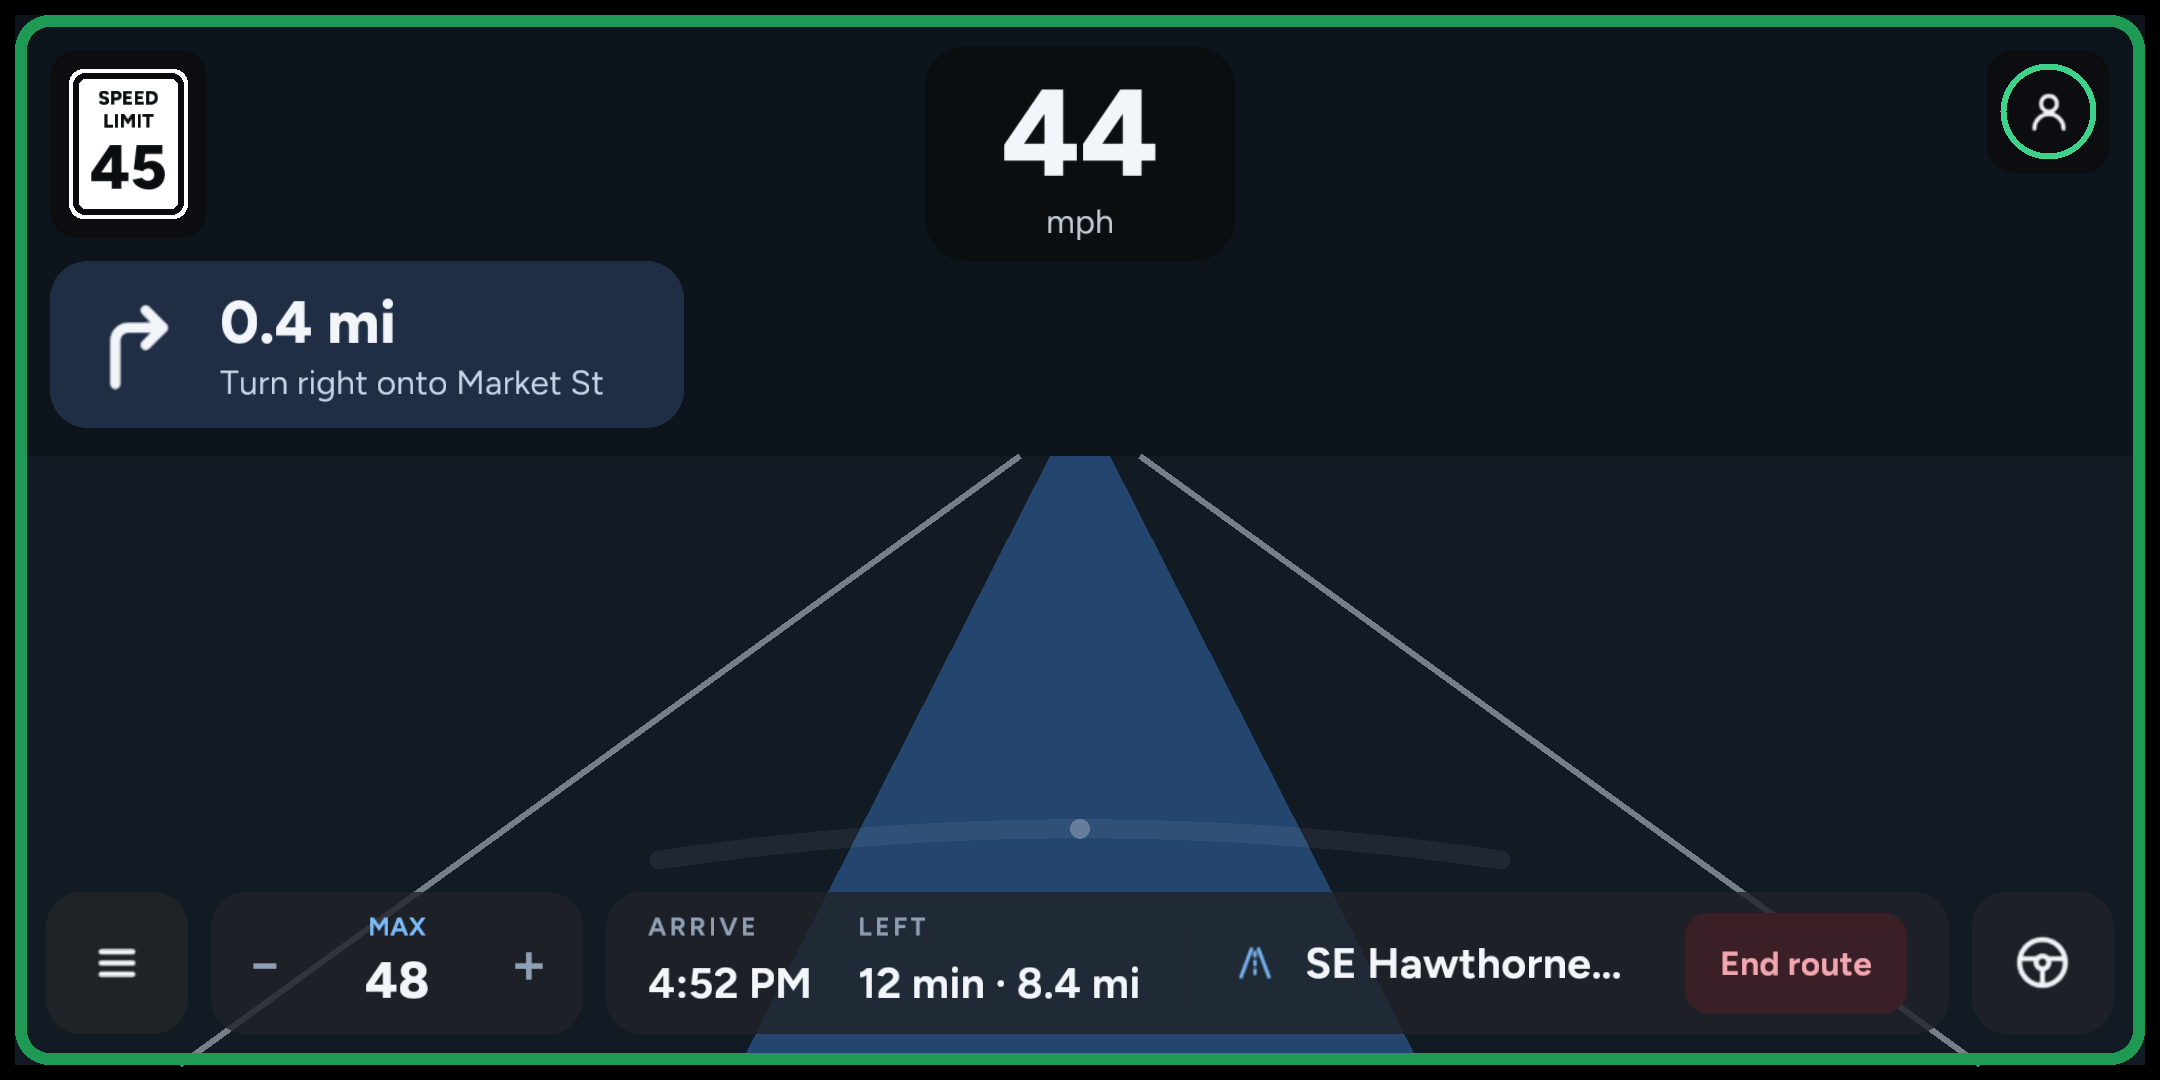
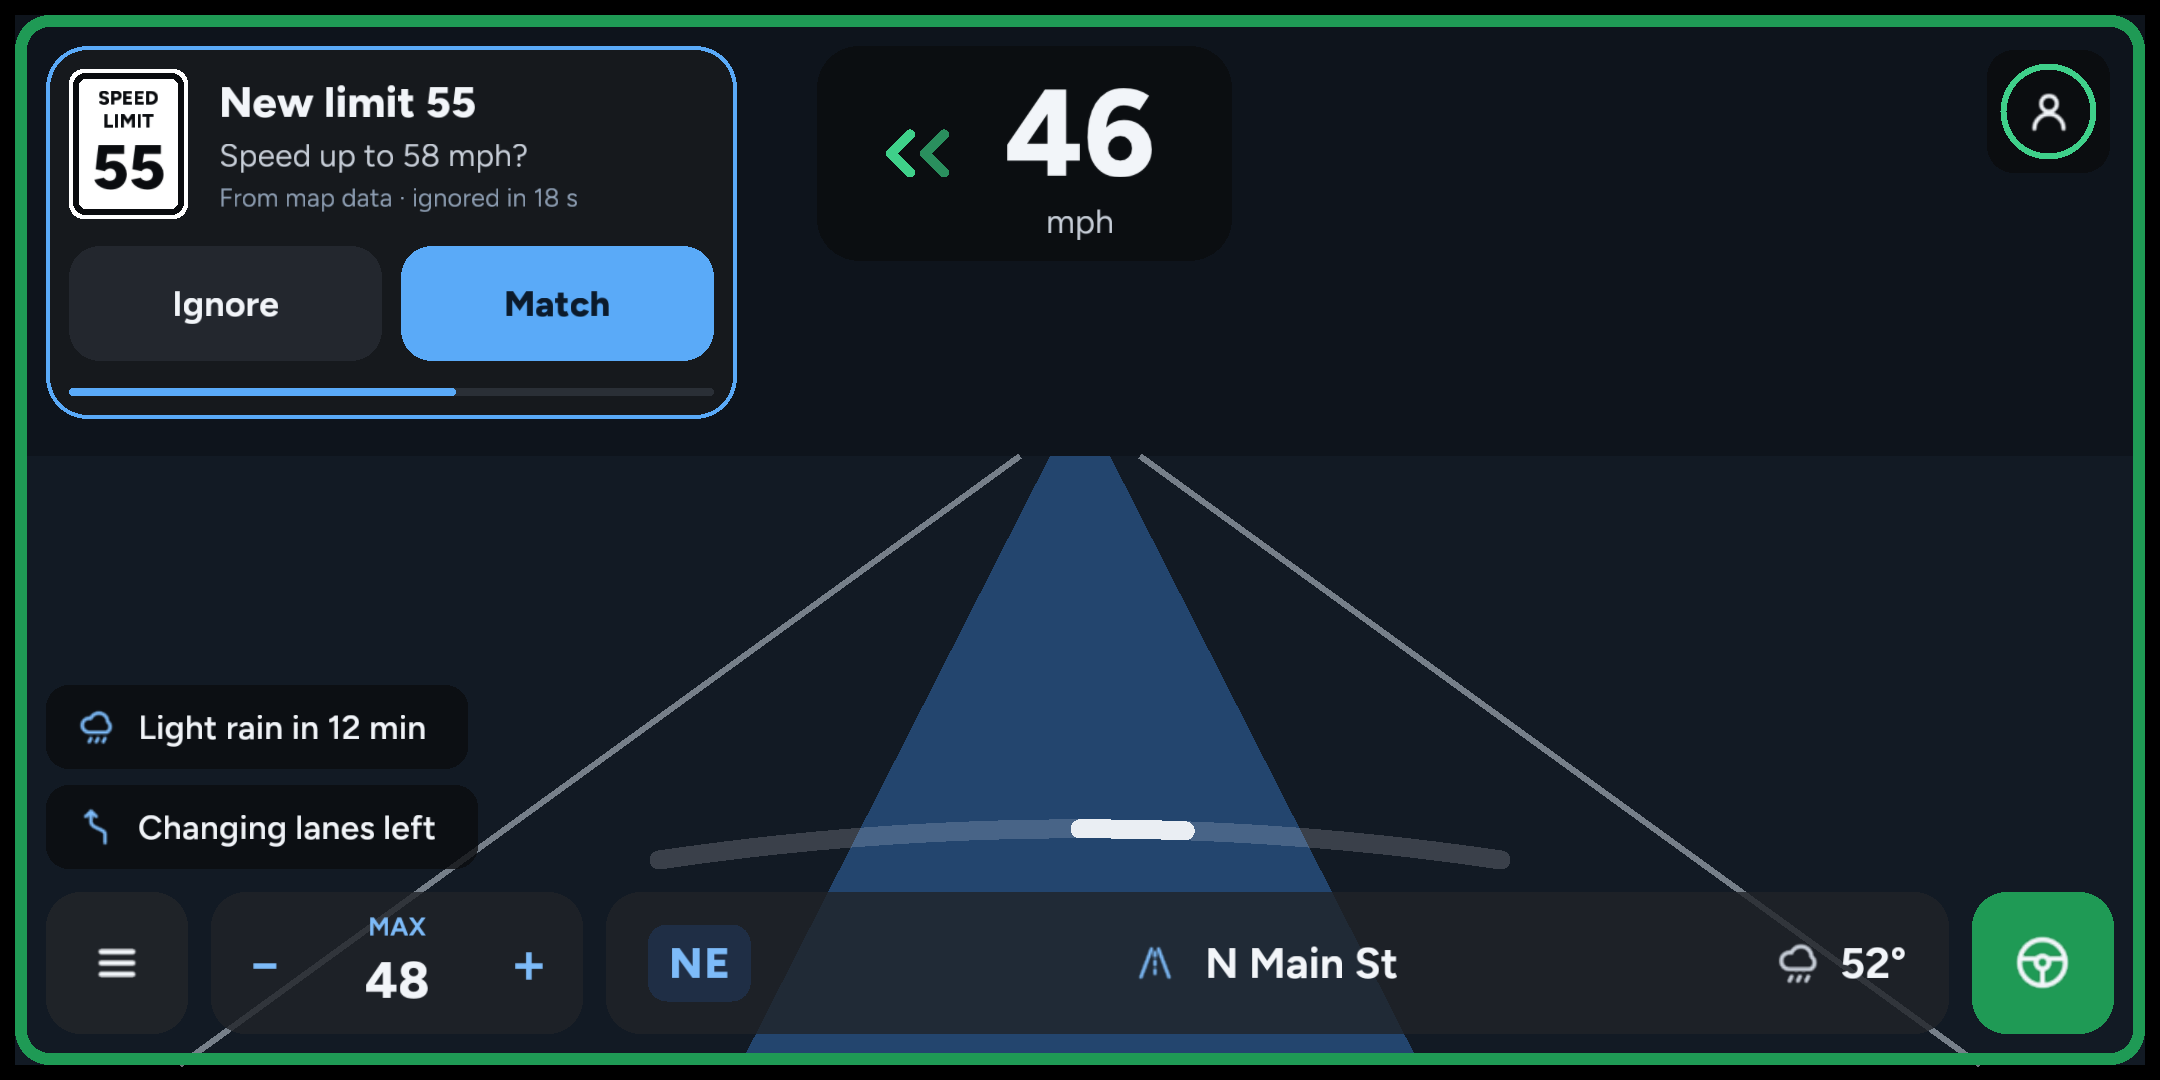
README: a fuller driving screenshot, plus voice typing and Help steer
The first image now shows a new-limit offer, status chips for a lane
change and light rain ahead, and the compass, street and temperature in
the bar (a new onroad_hero render). A third row adds voice typing and
Help steer.

Claude-Session: https://claude.ai/code/session_01R4pPc2hcx88Dbjjec1p8WC

diff --git a/selfdrive/ui/tandem/tools/render/scene_onroad.py b/selfdrive/ui/tandem/tools/render/scene_onroad.py
@@ -76,6 +76,11 @@ def main(frame, save, out, tap, gui_app):
     "onroad_nav_limit": scene(BarState(True, True, 48, "mph", "SE Hawthorne Blvd", True, "4:52 PM", "12 min · 8.4 mi"), ArcState(0.15, 0.2, True),
                               None, LimitOffer(55, 58, "mph", "Map Data", 18), speed=44, limit="45",
                               turn=("0.4 mi", "Turn right onto Market St", "turn", "right")),
+    # The README's first image: a new-limit offer, a lane change and a weather heads-up, the compass and the weather now.
+    "onroad_hero": scene(BarState(True, True, 48, "mph", "N Main St", heading="NE", weather=("rain", "52°")), ArcState(0.25, 0.3, True),
+                         [(chip_for(Snapshot(engaged=True, lane_change="starting", lane_change_direction="left")), 1.0),
+                          (chip_for(Snapshot(forecast=("Light rain in 12 min", "rain"))), 1.0)],
+                         LimitOffer(55, 58, "mph", "Map Data", 18), speed=46, limit="45", signal="left"),
     "onroad_green": scene(BarState(True, True, 44, "mph", "SE Hawthorne Blvd"), ArcState(0, 0, False),
                           chip_for(Snapshot(engaged=True, standstill=True, events={"greenLight"})), speed=0, limit="45"),
   }

diff --git a/README.md b/README.md
@@ -9,7 +9,7 @@ I built this for my own preferences, and I do not encourage others to use it.
 
 [What's new](RELEASES.md) · [Development guide](selfdrive/ui/tandem/README.md) · [Report a problem](https://github.com/jfgordon2/Tandem/issues)
 
-![Tandem driving screen showing speed, the speed limit, turn directions, driver monitoring, and route controls](selfdrive/ui/tandem/assets/screenshots/onroad.png)
+![Tandem driving screen asking to match a new 55 mph limit, with status chips for a lane change and light rain ahead, and the compass, street, and temperature in the bar](selfdrive/ui/tandem/assets/screenshots/onroad.png)
 
 ## What makes Tandem different
 
@@ -44,6 +44,11 @@ StarPilot continues to provide the driving logic, vehicle integrations, and unde
 | --- | --- |
 | [![Everyday speed and steering settings with driving styles and speed limit controls](selfdrive/ui/tandem/assets/screenshots/everyday.png)](selfdrive/ui/tandem/assets/screenshots/everyday.png) | [![Destination picker with Home, Work, favorites, and recent places](selfdrive/ui/tandem/assets/screenshots/destinations.png)](selfdrive/ui/tandem/assets/screenshots/destinations.png) |
 | Driving style, speed limits, and lane changes in one place. | Saved places and recent destinations, a tap away. |
+
+| Voice typing | Help steer |
+| --- | --- |
+| [![Voice typing listening for a destination, with a level meter and a Type instead button](selfdrive/ui/tandem/assets/screenshots/voice.png)](selfdrive/ui/tandem/assets/screenshots/voice.png) | [![Help steer warning while the steering arc is at its limit in a curve](selfdrive/ui/tandem/assets/screenshots/helpsteer.png)](selfdrive/ui/tandem/assets/screenshots/helpsteer.png) |
+| Speak a place or a setting while parked; it's transcribed on the device. | A gentle warning before steering runs out in a curve. |
 
 ## Using Tandem
 

diff --git a/selfdrive/ui/tandem/assets/screenshots/README.md b/selfdrive/ui/tandem/assets/screenshots/README.md
@@ -6,11 +6,13 @@ The driving screen uses a schematic road instead of a camera recording.
 
 | Published image | Render output | Scene in `../../tools/render/` |
 | --- | --- | --- |
-| `onroad.png` | `onroad_nav.png` | `scene_onroad.py` |
+| `onroad.png` | `onroad_hero.png` (a new-limit offer, two chips, compass and weather) | `scene_onroad.py` |
 | `home.png` | `homeweather.png` (with the forecast strip) | `scene_sidebar.py` |
 | `settings.png` | `hub.png` | `scene_compare.py` |
 | `everyday.png` | `driving.png` | `scene_compare.py` |
 | `destinations.png` | `destinations.png` | `scene_destinations.py` |
+| `voice.png` | `voicelistening.png` | `scene_destinations.py` |
+| `helpsteer.png` | `onroad_helpsteer.png` | `scene_onroad.py` |
 
 To refresh them, use the built-screen rendering instructions in the root
 [AGENTS.md](../../../../../AGENTS.md), then copy the selected render outputs here with the
